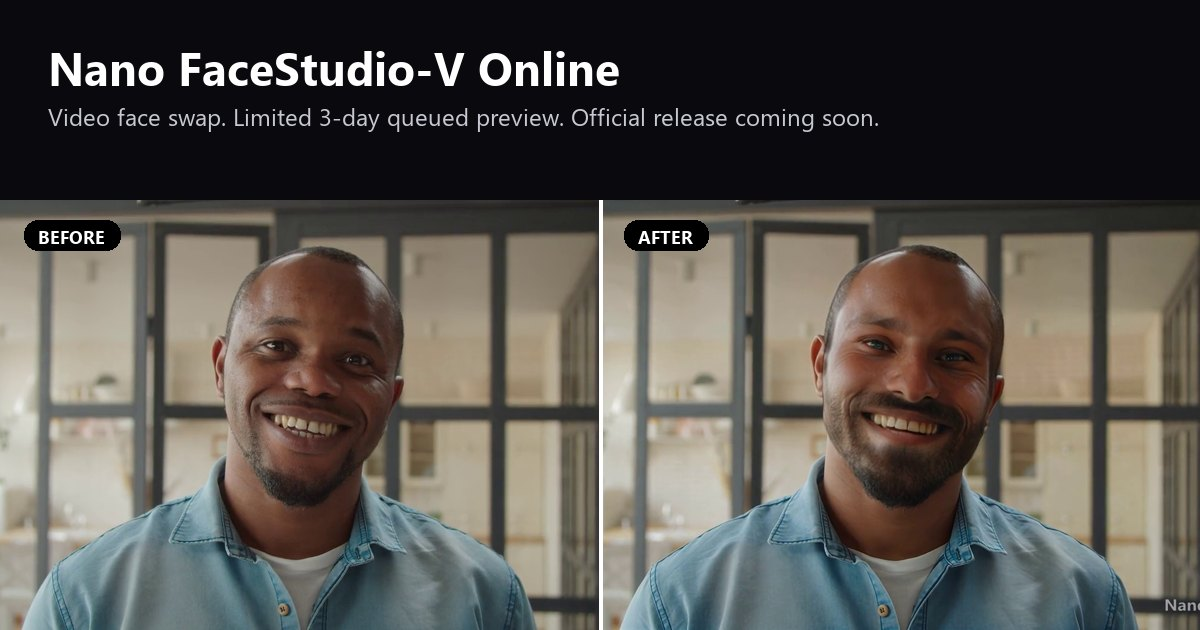
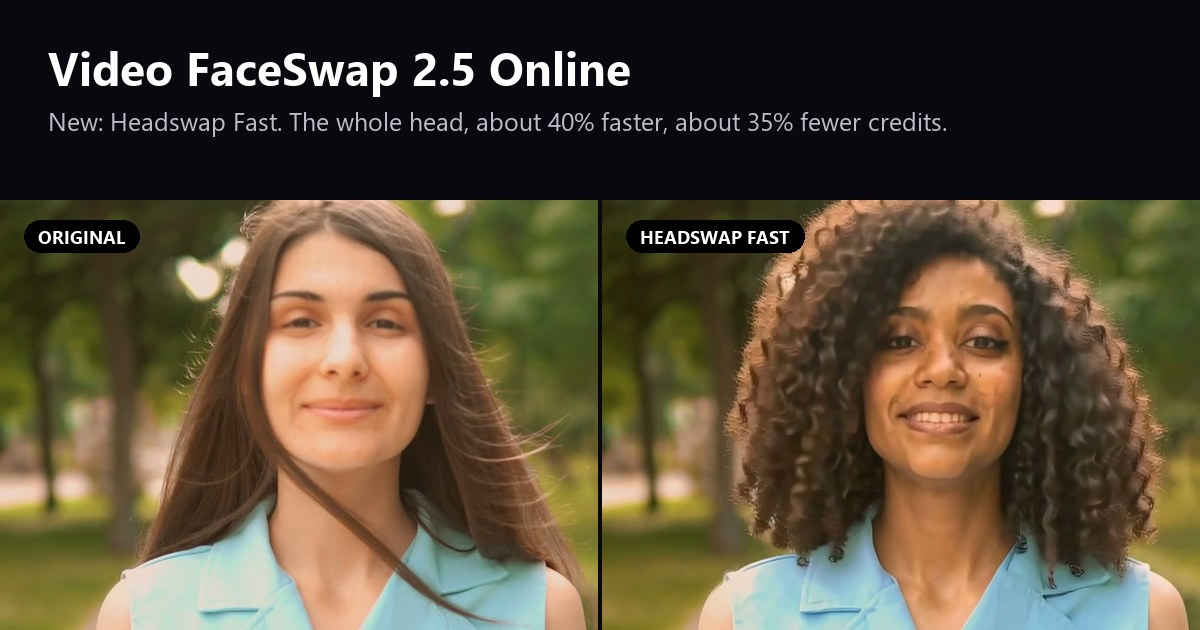
Video FaceSwap 2.5: a new preview picture for shared links, and the product's new name on the legal pages (nothing else in them changes)

diff --git a/public/facestudio-v/index.html b/public/facestudio-v/index.html
@@ -17,13 +17,13 @@
 <link rel="alternate" hreflang="x-default" href="https://nanopocket.ai/facestudio-v">
 <meta property="og:type" content="website">
 <meta property="og:url" content="https://nanopocket.ai/facestudio-v">
-<meta property="og:image" content="https://nanopocket.ai/images/facestudio-v/og-facestudio-v.jpg">
+<meta property="og:image" content="https://nanopocket.ai/images/facestudio-v/og-facestudio-v.jpg?v=25">
 <meta property="og:image:width" content="1200"><meta property="og:image:height" content="630">
 <meta name="twitter:card" content="summary_large_image">
 <meta name="twitter:title" content="Video FaceSwap 2.5 Online: swap a face or a whole head in any video">
-<meta name="twitter:image" content="https://nanopocket.ai/images/facestudio-v/og-facestudio-v.jpg">
-<script type="application/ld+json">{"@context":"https://schema.org","@type":"SoftwareApplication","name":"Video FaceSwap 2.5 Online","softwareVersion":"2.5.0","applicationCategory":"MultimediaApplication","operatingSystem":"Web","description":"A video face swap that replaces one person's face or whole head with a reference photo and leaves everyone else and the sound as filmed. For registered NanoPocket users; each video is paid for in credits at a price shown before it starts.","url":"https://nanopocket.ai/facestudio-v","image":"https://nanopocket.ai/images/facestudio-v/og-facestudio-v.jpg","datePublished":"2026-10-20","publisher":{"@type":"Organization","@id":"https://nanopocket.ai#organization","name":"NanoPocket","url":"https://nanopocket.ai"}}</script>
-<script type="application/ld+json">{"@context":"https://schema.org","@type":"WebPage","@id":"https://nanopocket.ai/facestudio-v#webpage","url":"https://nanopocket.ai/facestudio-v","name":"Video FaceSwap 2.5 Online: video face swap","inLanguage":"en","isPartOf":{"@type":"WebSite","name":"NanoPocket","url":"https://nanopocket.ai"},"primaryImageOfPage":"https://nanopocket.ai/images/facestudio-v/og-facestudio-v.jpg","dateModified":"2026-11-05"}</script>
+<meta name="twitter:image" content="https://nanopocket.ai/images/facestudio-v/og-facestudio-v.jpg?v=25">
+<script type="application/ld+json">{"@context":"https://schema.org","@type":"SoftwareApplication","name":"Video FaceSwap 2.5 Online","softwareVersion":"2.5.0","applicationCategory":"MultimediaApplication","operatingSystem":"Web","description":"A video face swap that replaces one person's face or whole head with a reference photo and leaves everyone else and the sound as filmed. For registered NanoPocket users; each video is paid for in credits at a price shown before it starts.","url":"https://nanopocket.ai/facestudio-v","image":"https://nanopocket.ai/images/facestudio-v/og-facestudio-v.jpg?v=25","datePublished":"2026-10-20","publisher":{"@type":"Organization","@id":"https://nanopocket.ai#organization","name":"NanoPocket","url":"https://nanopocket.ai"}}</script>
+<script type="application/ld+json">{"@context":"https://schema.org","@type":"WebPage","@id":"https://nanopocket.ai/facestudio-v#webpage","url":"https://nanopocket.ai/facestudio-v","name":"Video FaceSwap 2.5 Online: video face swap","inLanguage":"en","isPartOf":{"@type":"WebSite","name":"NanoPocket","url":"https://nanopocket.ai"},"primaryImageOfPage":"https://nanopocket.ai/images/facestudio-v/og-facestudio-v.jpg?v=25","dateModified":"2026-11-05"}</script>
 <script type="application/ld+json">{"@context":"https://schema.org","@type":"BreadcrumbList","itemListElement":[{"@type":"ListItem","position":1,"name":"NanoPocket","item":"https://nanopocket.ai"},{"@type":"ListItem","position":2,"name":"Online face swap","item":"https://nanopocket.ai/face-swap"},{"@type":"ListItem","position":3,"name":"Video FaceSwap Online","item":"https://nanopocket.ai/facestudio-v"}]}</script>
 <script type="application/ld+json">{"@context":"https://schema.org","@graph":[{"@type":"VideoObject","name":"Headswap Fast, the whole head: Video FaceSwap 2.5 Online","description":"A head swap made with Headswap Fast: the hair and head shape come from one reference photo. Shown on the page beside the original clip and the Headswap Best result.","thumbnailUrl":["https://nanopocket.ai/facestudio-v/media/cmp/hd2_fast.jpg"],"uploadDate":"2026-11-05T00:00:00+00:00","contentUrl":"https://nanopocket.ai/facestudio-v/media/cmp/hd2_fast.mp4","duration":"PT4S","isFamilyFriendly":true,"publisher":{"@type":"Organization","@id":"https://nanopocket.ai#organization","name":"NanoPocket","url":"https://nanopocket.ai"}},{"@type":"VideoObject","name":"Headswap Best, the whole head: Video FaceSwap 2.5 Online","description":"A head swap made with Headswap Best: the hair and head shape come from one reference photo. Shown on the page beside the original clip and the Headswap Fast result.","thumbnailUrl":["https://nanopocket.ai/facestudio-v/media/cmp/hd2_best.jpg"],"uploadDate":"2026-11-05T00:00:00+00:00","contentUrl":"https://nanopocket.ai/facestudio-v/media/cmp/hd2_best.mp4","duration":"PT4S","isFamilyFriendly":true,"publisher":{"@type":"Organization","@id":"https://nanopocket.ai#organization","name":"NanoPocket","url":"https://nanopocket.ai"}},{"@type":"VideoObject","name":"A whole dance, one swap: Video FaceSwap Online","description":"Fifteen seconds of turns, hair flips and fists in front of the face, swapped from one reference photo with the motion engine introduced in version 2.0.","thumbnailUrl":["https://nanopocket.ai/facestudio-v/media/v2/hero2_dance.jpg"],"uploadDate":"2026-11-01T00:00:00+00:00","contentUrl":"https://nanopocket.ai/facestudio-v/media/v2/hero2_dance.mp4","duration":"PT15S","isFamilyFriendly":true,"publisher":{"@type":"Organization","@id":"https://nanopocket.ai#organization","name":"NanoPocket","url":"https://nanopocket.ai"}},{"@type":"VideoObject","name":"Sleeves across the face, in a crew: Video FaceSwap Online","description":"Red sleeves whip across the face again and again while the crew moves around. Only the chosen dancer changes.","thumbnailUrl":["https://nanopocket.ai/facestudio-v/media/v2/group_sleeves_after.jpg"],"uploadDate":"2026-11-01T00:00:00+00:00","contentUrl":"https://nanopocket.ai/facestudio-v/media/v2/group_sleeves_after.mp4","duration":"PT5S","isFamilyFriendly":true,"publisher":{"@type":"Organization","@id":"https://nanopocket.ai#organization","name":"NanoPocket","url":"https://nanopocket.ai"}},{"@type":"VideoObject","name":"A full turn to profile: Video FaceSwap Online","description":"The head turns ninety degrees and back. The new face holds at every angle, with no flicker as it turns. A Video FaceSwap Online 1.1.0 result on hard footage: the swapped video, with the original clip and the reference face beside it on the page.","thumbnailUrl":["https://nanopocket.ai/facestudio-v/media/xc/profile_turn_poster.jpg"],"uploadDate":"2026-10-20T00:00:00+00:00","contentUrl":"https://nanopocket.ai/facestudio-v/media/xc/profile_turn_after.mp4","duration":"PT12S","isFamilyFriendly":true,"publisher":{"@type":"Organization","@id":"https://nanopocket.ai#organization","name":"NanoPocket","url":"https://nanopocket.ai"}},{"@type":"VideoObject","name":"A hand over the face, glasses on: Video FaceSwap Online","description":"The hand stays in front of the face, untouched. Only the part of the face you can see changes, and it is back in one piece the moment the hand leaves. A Video FaceSwap Online 1.1.0 result on hard footage: the swapped video, with the original clip and the reference face beside it on the page.","thumbnailUrl":["https://nanopocket.ai/facestudio-v/media/xc/hand_glasses_poster.jpg"],"uploadDate":"2026-10-20T00:00:00+00:00","contentUrl":"https://nanopocket.ai/facestudio-v/media/xc/hand_glasses_after.mp4","duration":"PT8S","isFamilyFriendly":true,"publisher":{"@type":"Organization","@id":"https://nanopocket.ai#organization","name":"NanoPocket","url":"https://nanopocket.ai"}},{"@type":"VideoObject","name":"Smiling man: Video FaceSwap Online","description":"Face swap result from Video FaceSwap Online: Smiling man. Studio light, indoors. Shown beside the original clip and the reference face used.","thumbnailUrl":["https://nanopocket.ai/facestudio-v/media/man_smile_poster.jpg"],"uploadDate":"2026-10-13T00:00:00+00:00","contentUrl":"https://nanopocket.ai/facestudio-v/media/man_smile_swap.mp4","duration":"PT4S","isFamilyFriendly":true,"publisher":{"@type":"Organization","@id":"https://nanopocket.ai#organization","name":"NanoPocket","url":"https://nanopocket.ai"}}]}</script>
 <meta property="og:title" content="AI video face swap online, free to start: Video FaceSwap 2.5 Online">

diff --git a/app/trust/page.tsx b/app/trust/page.tsx
@@ -90,7 +90,7 @@ const SYSTEM_REQS: SystemReq[] = [
     status: "Stable",
   },
   {
-    product: "Video FaceSwap 2.0 Online",
+    product: "Video FaceSwap 2.5 Online",
     href: "/facestudio-v",
     os: "Any modern browser, signed-in NanoPocket account, paid in credits",
     gpu: "Hosted GPU (no local hardware required)",
@@ -182,7 +182,7 @@ const PRIVACY_CLAIMS: PrivacyClaim[] = [
   {
     question: "Is my source media uploaded?",
     answer:
-      "Desktop apps: No. Every photo, video, and prompt stays on the user's local disk; the model runs on the user's GPU. Online tools: photos and videos are uploaded to GPU servers operated by NanoPocket, never used to train any model, and kept only as long as the Privacy Policy states (Video FaceSwap 2.0 Online deletes uploads within 24 hours and finished videos after 24 hours, or after 7 days for an account that has added credits; the other tools keep them in private storage until deleted on request or with the account).",
+      "Desktop apps: No. Every photo, video, and prompt stays on the user's local disk; the model runs on the user's GPU. Online tools: photos and videos are uploaded to GPU servers operated by NanoPocket, never used to train any model, and kept only as long as the Privacy Policy states (Video FaceSwap 2.5 Online deletes uploads within 24 hours and finished videos after 24 hours, or after 7 days for an account that has added credits; the other tools keep them in private storage until deleted on request or with the account).",
   },
   {
     question: "Is content used to train models?",
@@ -202,7 +202,7 @@ const PRIVACY_CLAIMS: PrivacyClaim[] = [
   {
     question: "How long is data retained?",
     answer:
-      "Account data (email, license, machine activation records) is retained while the account exists; deletion on request is supported via tech@nanopocket.ai. Online-tool uploads and results: Video FaceSwap 2.0 Online deletes uploads within 24 hours and a finished video 24 hours after it is made (7 days for an account that has added credits); Nano FaceStudio Online, Nano HeadSwap Pro and Nano ImageEdit 2.0 Online keep them in private storage until they are deleted on request or with the account. See the Privacy Policy, section 2.",
+      "Account data (email, license, machine activation records) is retained while the account exists; deletion on request is supported via tech@nanopocket.ai. Online-tool uploads and results: Video FaceSwap 2.5 Online deletes uploads within 24 hours and a finished video 24 hours after it is made (7 days for an account that has added credits); Nano FaceStudio Online, Nano HeadSwap Pro and Nano ImageEdit 2.0 Online keep them in private storage until they are deleted on request or with the account. See the Privacy Policy, section 2.",
   },
   {
     question: "Where are servers located?",
@@ -320,8 +320,8 @@ const RETENTION_TABLE: RetentionRow[] = [
   },
   {
     category: "Online-tool uploads and results",
-    duration: "Video FaceSwap 2.0 Online: 24 hours (finished videos 7 days for an account that has added credits). Other online tools: until deleted on request or with the account",
-    trigger: "Video made (Video FaceSwap 2.0 Online); deletion request or account deletion (other tools)",
+    duration: "Video FaceSwap 2.5 Online: 24 hours (finished videos 7 days for an account that has added credits). Other online tools: until deleted on request or with the account",
+    trigger: "Video made (Video FaceSwap 2.5 Online); deletion request or account deletion (other tools)",
   },
   {
     category: "Feedback & survey responses",
@@ -558,7 +558,7 @@ const KNOWN_ISSUES: KnownIssue[] = [
   },
   {
     title: "Online demo capacity at peak hours",
-    product: "Video FaceSwap 2.0 Online",
+    product: "Video FaceSwap 2.5 Online",
     detail:
       "Requests are queued on a single GPU, so a clip may wait for its turn. The price is shown before you start, and a video that fails is refunded.",
     href: "/facestudio-v",
@@ -717,7 +717,7 @@ const trustFaqJsonLd = {
       name: "Which products are stable vs. coming soon?",
       acceptedAnswer: {
         "@type": "Answer",
-        text: "Stable today: Nano ImageEnh Pro 3.0, VideoEnhance, VideoGen, ImageEdit, FacialEdit, ImageTryon, FaceSwap (legacy), and Nano FaceStudio Pro 1.0 (Windows now, macOS to follow), plus four online tools: Nano FaceStudio Online, Nano HeadSwap Pro, Video FaceSwap 2.0 Online and Nano ImageEdit 2.0 Online. Apple Silicon ports for VideoEnhance, VideoGen, ImageEdit, FacialEdit, and ImageTryon are on the roadmap.",
+        text: "Stable today: Nano ImageEnh Pro 3.0, VideoEnhance, VideoGen, ImageEdit, FacialEdit, ImageTryon, FaceSwap (legacy), and Nano FaceStudio Pro 1.0 (Windows now, macOS to follow), plus four online tools: Nano FaceStudio Online, Nano HeadSwap Pro, Video FaceSwap 2.5 Online and Nano ImageEdit 2.0 Online. Apple Silicon ports for VideoEnhance, VideoGen, ImageEdit, FacialEdit, and ImageTryon are on the roadmap.",
       },
     },
     {

diff --git a/app/privacy/page.tsx b/app/privacy/page.tsx
@@ -35,7 +35,7 @@ export const metadata: Metadata = {
 
 /** How long online-tool uploads and results are kept: used in the table and in section 4. */
 const ONLINE_RETENTION =
-  "Video FaceSwap 2.0 Online: uploads are deleted within 24 hours, and a finished video is deleted 24 hours after it is made, or 7 days after if the account has added credits. Nano FaceStudio Online, Nano HeadSwap Pro and Nano ImageEdit 2.0 Online: uploads and results are kept in private storage (Cloudflare R2 object storage or the GPU servers' disks), reachable only through signed links that expire within an hour, so the result can be downloaded. They are not yet deleted automatically after a fixed period; they are deleted on request (tech@nanopocket.ai) and with the account. Never used to train models.";
+  "Video FaceSwap 2.5 Online: uploads are deleted within 24 hours, and a finished video is deleted 24 hours after it is made, or 7 days after if the account has added credits. Nano FaceStudio Online, Nano HeadSwap Pro and Nano ImageEdit 2.0 Online: uploads and results are kept in private storage (Cloudflare R2 object storage or the GPU servers' disks), reachable only through signed links that expire within an hour, so the result can be downloaded. They are not yet deleted automatically after a fixed period; they are deleted on request (tech@nanopocket.ai) and with the account. Never used to train models.";
 
 interface DataCategory {
   category: string;
@@ -76,7 +76,7 @@ const DATA_CATEGORIES: DataCategory[] = [
   {
     category: "Online tool uploads and results",
     items:
-      "Photos and videos uploaded to the online tools (Nano FaceStudio Online, Nano HeadSwap Pro, Video FaceSwap 2.0 Online, formerly Video FaceSwap Online, and Nano ImageEdit 2.0 Online), the results made from them, and the face data derived from them while a job runs (see section 4).",
+      "Photos and videos uploaded to the online tools (Nano FaceStudio Online, Nano HeadSwap Pro, Video FaceSwap 2.5 Online, formerly Video FaceSwap Online, and Nano ImageEdit 2.0 Online), the results made from them, and the face data derived from them while a job runs (see section 4).",
     purpose:
       "Carry out the swap or edit the user asked for and let the user download the result.",
     basis:
@@ -421,7 +421,7 @@ export default function PrivacyPage() {
             4. Online tools: what happens to uploaded photos, videos and faces
           </h2>
           <p className="mb-3 text-sm leading-relaxed text-muted-foreground sm:text-base">
-            The online tools (Nano FaceStudio Online, Nano HeadSwap Pro, Video FaceSwap 2.0 Online and
+            The online tools (Nano FaceStudio Online, Nano HeadSwap Pro, Video FaceSwap 2.5 Online and
             Nano ImageEdit 2.0 Online) are the only NanoPocket surfaces that receive user-uploaded
             photos and videos. The desktop apps process everything on the user&apos;s own machine.
             We treat online-tool content as follows:
@@ -436,7 +436,7 @@ export default function PrivacyPage() {
             <li>
               <strong className="text-foreground">Face data.</strong> To swap a face, the models
               detect the faces in a file and derive numerical representations of facial features
-              from them (face embeddings). On Video FaceSwap 2.0 Online the same kind of measure is used
+              from them (face embeddings). On Video FaceSwap 2.5 Online the same kind of measure is used
               to show how closely a result matches the reference photo. Face data is used only to
               carry out the job the user asked for. It is never used to identify anyone, never
               compared against a database of people, never sold, and never kept as a separate record

diff --git a/app/verify/page.tsx b/app/verify/page.tsx
@@ -154,7 +154,7 @@ interface ModelComponent {
 const MODEL_PROVENANCE: ModelComponent[] = [
   {
     category: "Identity (face)",
-    product: "Nano FaceStudio Online / Nano FaceStudio Pro 1.0 / Video FaceSwap 2.0 Online",
+    product: "Nano FaceStudio Online / Nano FaceStudio Pro 1.0 / Video FaceSwap 2.5 Online",
     upstream: "InstantX / InstantID",
     upstreamUrl: "https://huggingface.co/InstantX/InstantID",
     license: "Apache-2.0 (model card terms)",
@@ -280,7 +280,7 @@ const NETWORK_ASSERTIONS: NetworkAssertion[] = [
     exception: "Same activation + update check exceptions as above.",
   },
   {
-    product: "Online tools (Nano FaceStudio Online, Nano HeadSwap Pro, Video FaceSwap 2.0 Online, Nano ImageEdit 2.0 Online)",
+    product: "Online tools (Nano FaceStudio Online, Nano HeadSwap Pro, Video FaceSwap 2.5 Online, Nano ImageEdit 2.0 Online)",
     expected:
       "Outbound HTTPS to NanoPocket's hosted GPUs is required by design — these are explicitly online services, not local ones.",
     exception: "n/a — this is the contract.",

diff --git a/app/security/page.tsx b/app/security/page.tsx
@@ -118,7 +118,7 @@ export default function SecurityPage() {
           <h2 className="mb-3 text-2xl font-bold tracking-tight text-foreground">In scope</h2>
           <ul className="list-disc space-y-1.5 pl-5 text-sm leading-relaxed text-muted-foreground sm:text-base">
             <li>nanopocket.ai and its subdomains.</li>
-            <li>The online tools: Nano FaceStudio Online, Nano HeadSwap Pro, Video FaceSwap 2.0 Online and Nano ImageEdit 2.0 Online.</li>
+            <li>The online tools: Nano FaceStudio Online, Nano HeadSwap Pro, Video FaceSwap 2.5 Online and Nano ImageEdit 2.0 Online.</li>
             <li>The desktop applications: Nano FaceSwap, FaceSwap Pro, ImageEnh Pro, VideoEnhance, VideoGen, ImageEdit, FacialEdit, ImageTryon.</li>
             <li>Account, license, and activation APIs (auth, license, activations).</li>
             <li>Update channel and the signed-manifest update mechanism.</li>

diff --git a/app/terms/page.tsx b/app/terms/page.tsx
@@ -164,7 +164,7 @@ export default function TermsPage() {
         </Section>
 
         <Section id="demos" title="3. Online tools">
-          The online tools (Nano FaceStudio Online, Nano HeadSwap Pro, Video FaceSwap 2.0 Online and
+          The online tools (Nano FaceStudio Online, Nano HeadSwap Pro, Video FaceSwap 2.5 Online and
           Nano ImageEdit 2.0 Online) are available to every signed-in NanoPocket account. New
           accounts receive free credits; beyond them, use is paid in prepaid credits as described
           on the Pricing page. They are best-effort, rate-limited services with no uptime SLA.
